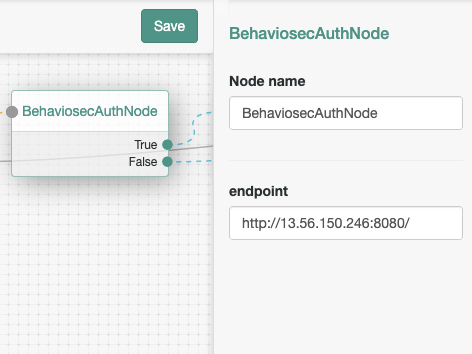
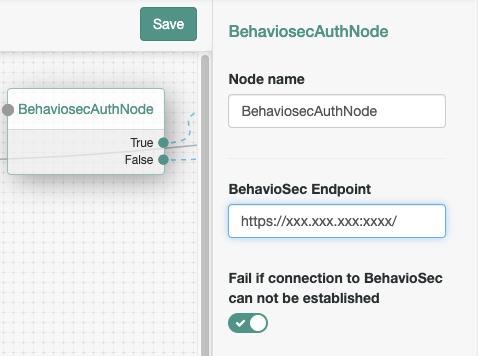
added documentation

diff --git a/README.md b/README.md
@@ -24,6 +24,9 @@ The platform can also identify behavioral patterns that may indicate a bot or RA
 
 You can use the BehavioSec platform with any type of app where an end user inputs text, interacts with touch surfaces, or uses a mouse. An SDK captures the end user’s keystroke or pressure, swipes, etc. The system provides continuous authentication when multiple input fields and buttons throughout an app are instrumented.
 
+## More information
+Please familiarize with [BehavioSec SDK][behaviosec_platform] and ask customer support for deep dive in flag and configuration options.
+
 ## Authentication Tree 
 Behaviosec provides all the neccesery componets to use [BehavioSec platform][behaviosec_platform] platform out the box. 
 
@@ -31,21 +34,28 @@ A sample of Authentication tree is shown below. Details for component configurat
 ![ScreenShot](./behaviosec-authentication-tree-basic-example.png)
 
 
+## BehaviosecCollector
+This is a data collector node that you need to place under the page node. In the configuration you have an option to add different collector script if needed.
+
+![ScreenShot](./behaviosec_collector_node.png)
+
 ## BehaviosecAuthNode
+This node receives the collected data and communicates with the server. You have an option to fail authentication if connection to BehavioSense can not be established.
 
 ![ScreenShot](./behaviosec-auth-node.png)
 
-## BehaviosecCollector
-![ScreenShot](./behaviosec-collector-node.png)
 
 ## BehavioSecScoreEvaluator
+This is score evaluation module allowing you to specify score, confidence, and risk levels. 
+Anything below specified values will fail. It also allows to control outcome for users that are still in training.
+
 ![ScreenShot](./behaviosec-score-evaluator.png)
 
 
 ## BehavioSecBooleanEvaluator
-![ScreenShot](./behaviosec-boolean-evaluator.png)
+Boolean evaluator controls the outcome for flags returned by BehavioSense module. Will fail on any mismatching condition.
 
-s
+![ScreenShot](./behaviosec-boolean-evaluator.png)
 
 
 ## Installation
@@ -55,7 +65,7 @@ Please contact sales representative sales-xxx@forgerock.com
 
 
 ### Binary
-Copy the .jar file from the ../target directory into the ../web-container/webapps/openam/WEB-INF/lib directory where AM is deployed.  Restart the web container to pick up the new node.  The node will then appear in the authentication trees components palette.
+Download latest release from xxxxx and copy file to the ../web-container/webapps/openam/WEB-INF/lib directory where AM is deployed.  Restart the web container to pick up the new node.  The node will then appear in the authentication trees components palette.
 
 The code in this repository has binary dependencies that live in the ForgeRock maven repository. Maven can be configured to authenticate to this repository by following the following [ForgeRock Knowledge Base Article](https://backstage.forgerock.com/knowledge/kb/article/a74096897).
 
@@ -66,7 +76,7 @@ The code in this repository has binary dependencies that live in the ForgeRock m
         
 The sample code described herein is provided on an "as is" basis, without warranty of any kind, to the fullest extent permitted by law. BehavioSec does not warrant or guarantee the individual success developers may have in implementing the sample code on their development platforms or in production configurations.
 
-BehavioSec does not warrant, guarantee or make any representations regarding the use, results of use, accuracy, timeliness or completeness of any data or information relating to the sample code. ForgeRock disclaims all warranties, expressed or implied, and in particular, disclaims all warranties of merchantability, and warranties related to the code, or any service or software related thereto.
+BehavioSec does not warrant, guarantee or make any representations regarding the use, results of use, accuracy, timeliness or completeness of any data or information relating to the sample code. BehavioSec disclaims all warranties, expressed or implied, and in particular, disclaims all warranties of merchantability, and warranties related to the code, or any service or software related thereto.
 
 BehavioSec shall not be liable for any direct, indirect or consequential damages or costs of any type arising out of any action taken by you or others related to the sample code.
 
